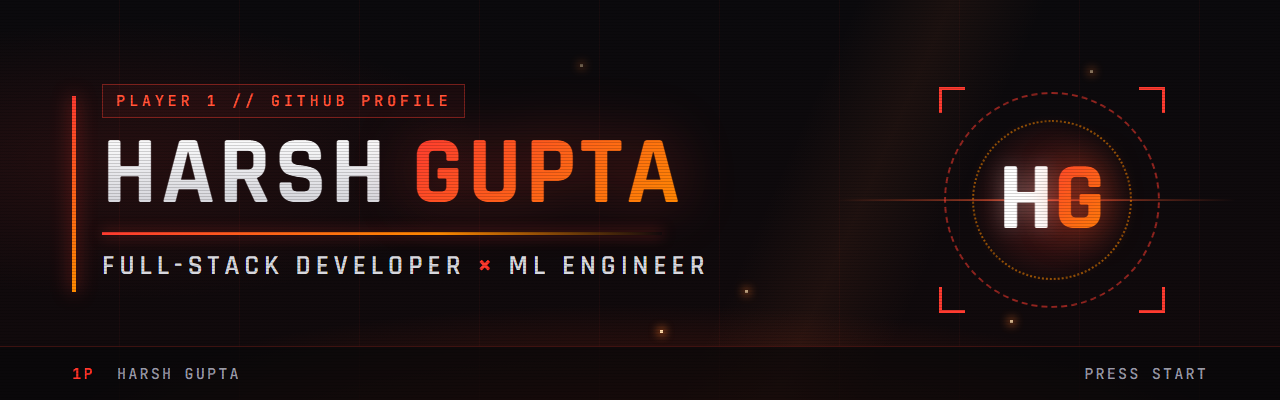
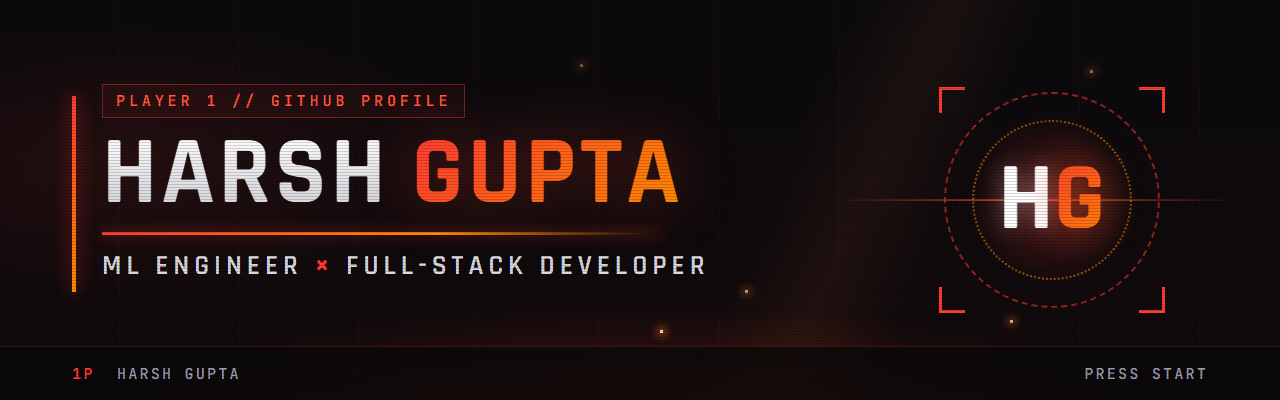
Lead with ML engineering
Banner, intro line, combat stats order and the closing line now put ML
engineering ahead of full-stack. Also drops C++ from the stats, which the
current resume no longer lists.

Claude-Session: https://claude.ai/code/session_01S3VEMPe2Y4LtUzSprSbjok

Changed region(s): [[0.0625, 0.63, 0.5312, 0.69]]

diff --git a/README.md b/README.md
@@ -1,4 +1,4 @@
-<img src="./assets/banner.png" alt="Harsh Gupta — Full-Stack Developer and ML Engineer" width="100%" />
+<img src="./assets/banner.png" alt="Harsh Gupta — ML Engineer and Full-Stack Developer" width="100%" />
 
 <p align="center">
   <a href="https://www.harshgupta.co.in"><img src="https://img.shields.io/badge/PORTFOLIO-harshgupta.co.in-ff3b30?style=for-the-badge&labelColor=0a0a0c" alt="Portfolio" /></a>
@@ -11,8 +11,8 @@
 ### `// PLAYER PROFILE`
 
 B.Tech Computer Science student at **SRM IST, Kattankulathur** (Class of '27). Most recently a
-**Software Developer Intern at DHub Technologies LLC** (Dallas, TX — remote). I build full-stack products
-end to end, and train models when the problem is better solved by learning than by rules.
+**Software Developer Intern at DHub Technologies LLC** (Dallas, TX — remote). I train models when a problem is better solved by
+learning than by rules, and build the full-stack products they live inside.
 
 Published research on pothole detection with YOLOv8, and I keep a
 [Tekken-themed portfolio](https://www.harshgupta.co.in) that I probably enjoyed building too much.
@@ -47,11 +47,11 @@ Published research on pothole detection with YOLOv8, and I keep a
 ### `// COMBAT STATS`
 
 ```
-PROGRAMMING LANGUAGES  ███████████████████░  90   Python · JavaScript · SQL · C++
+MACHINE LEARNING       ████████████████░░░░  80   PyTorch · scikit-learn · XGBoost · YOLOv8
+PROGRAMMING LANGUAGES  ███████████████████░  90   Python · JavaScript · SQL
 FRAMEWORKS             ██████████████████░░  85   React · React Native · Node · Flask
 TOOLS                  ██████████████████░░  88   Git · VS Code · Streamlit
 DATABASES              █████████████████░░░  82   PostgreSQL · MySQL · MongoDB
-MACHINE LEARNING       ████████████████░░░░  80   PyTorch · scikit-learn · XGBoost · YOLOv8
 HARDWARE               █████████████░░░░░░░  65   Raspberry Pi
 ```
 
@@ -110,7 +110,7 @@ HARDWARE               █████████████░░░░░░
 
 ### `// VERSUS` — Ready for the next round
 
-Open to internships and full-stack / ML engineering roles.
+Open to internships and ML / full-stack engineering roles.
 
 **[harshgupta.co.in](https://www.harshgupta.co.in)** · **[harsh370hg@gmail.com](mailto:harsh370hg@gmail.com)** · **[in/harshfiu](https://www.linkedin.com/in/harshfiu)**
 
